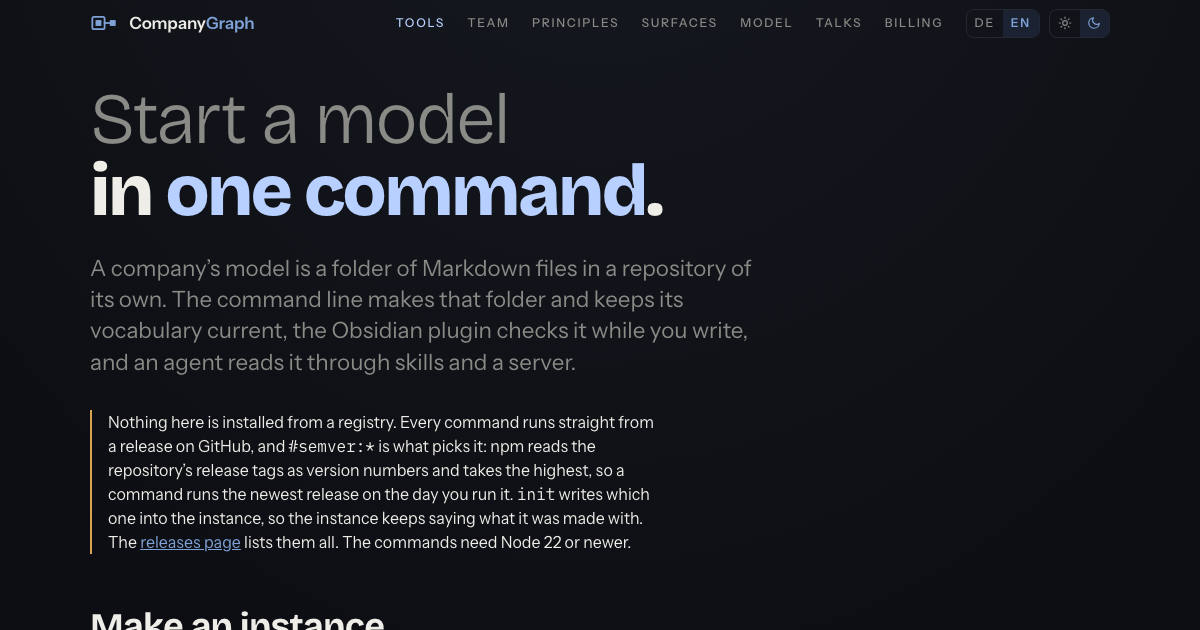
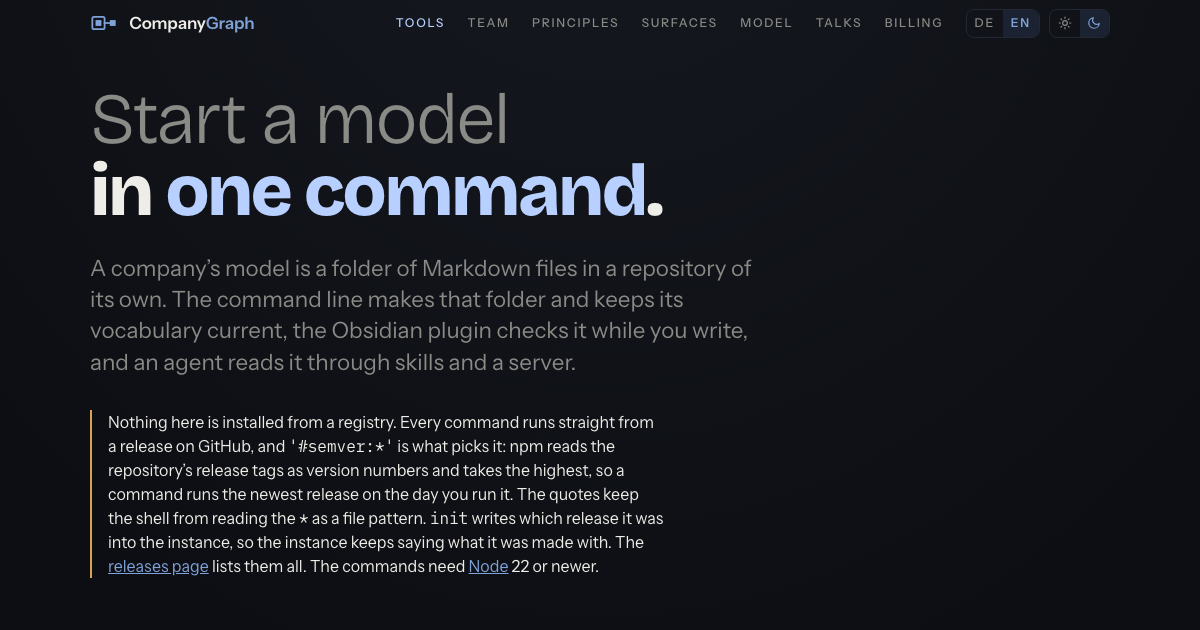
The note shows semver in its quotes, and links Node
In the note, `#semver:*` read as part of the sentence; it now carries the quotes every command gives it, so it reads as the code it is, and a sentence says why the quotes are there: the shell would otherwise take the `*` as a file pattern. Node links to its download page, since the note is where a reader without it finds out they need it.

Verified: npm run verify passes every check on every page, including the internal and external link checks; og:check passes; nodejs.org/en/download answers 200.

Changed region(s): [[0.0925, 0.754, 0.555, 0.9349], [0.0617, 0.9651, 0.3392, 1.0], [0.2467, 0.6937, 0.5242, 0.7238]]

diff --git a/tools/index.html b/tools/index.html
@@ -642,7 +642,7 @@
     <div class="title">
       <h1><span class="r70">Start a model</span><span class="rcl">in <em>one command</em>.</span></h1>
       <p class="tagline">A company’s model is a folder of Markdown files in a repository of its own. The command line makes that folder and keeps its vocabulary current, the Obsidian plugin checks it while you write, and an agent reads it through skills and a server.</p>
-      <p class="note">Nothing here is installed from a registry. Every command runs straight from a release on GitHub, and <code class="mono">#semver:*</code> is what picks it: npm reads the repository’s release tags as version numbers and takes the highest, so a command runs the newest release on the day you run it. <code class="mono">init</code> writes which one into the instance, so the instance keeps saying what it was made with. The <a href="https://github.com/companygraph/meta-model/releases">releases page</a> lists them all. The commands need Node 22 or newer.</p>
+      <p class="note">Nothing here is installed from a registry. Every command runs straight from a release on GitHub, and <code class="mono">'#semver:*'</code> is what picks it: npm reads the repository’s release tags as version numbers and takes the highest, so a command runs the newest release on the day you run it. The quotes keep the shell from reading the <code class="mono">*</code> as a file pattern. <code class="mono">init</code> writes which release it was into the instance, so the instance keeps saying what it was made with. The <a href="https://github.com/companygraph/meta-model/releases">releases page</a> lists them all. The commands need <a href="https://nodejs.org/en/download">Node</a> 22 or newer.</p>
     </div>
 
     <section>
